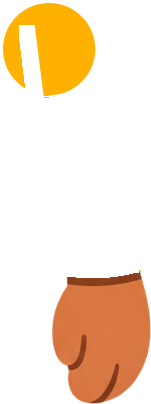
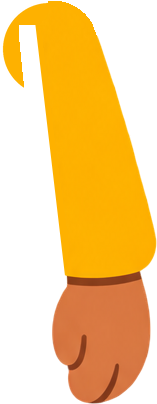
Sửa bàn tay nhân vật teen rời khỏi tay áo khi nhún vai; app ghi đúng công cụ vẽ ảnh đang chọn
- Teen: tay áo được cắt liền với bàn tay nên nhún vai, cổ vũ, nhảy không còn bàn tay tách khỏi tay áo; sườn áo lộ ra khi dang tay được làm mượt; nếp gấp tay áo khi đứng yên liền nét như ảnh gốc.
- Bước "Vẽ hình ảnh", mô tả kiểu video và nút vẽ đồ vật mới ghi tên công cụ theo Cài đặt (vd. Google + Recraft) thay cho chữ OpenAI cố định.

diff --git a/remotion-remake/src/server/index.html b/remotion-remake/src/server/index.html
@@ -191,7 +191,7 @@
       </div>
       <div class="row">
         <select id="style" aria-label="Kiểu video">
-          <option value="fedtoon">🎨 Hoạt hình Fedtoon (ảnh OpenAI + nhân vật Fedtoon)</option>
+          <option value="fedtoon">🎨 Hoạt hình Fedtoon (ảnh AI + nhân vật Fedtoon)</option>
           <option value="classic">🔤 Chữ &amp; đồ hoạ (kiểu cũ)</option>
         </select>
         <label class="check" style="color:var(--text)" title="Dừng sau khi AI viết kịch bản: bạn sửa kịch bản rồi mới tốn tiền vẽ ảnh và lồng tiếng"><input type="checkbox" id="review" /> ✋ Dừng để duyệt kịch bản trước khi vẽ ảnh</label>
@@ -265,7 +265,7 @@
             <button class="primary" id="render-saved" type="button">🎬 Render lại (không tốn AI)</button>
             <button id="edit-here" type="button" hidden>✏ Sửa cảnh đang xem</button>
           </div>
-          <div class="hint" style="margin-top:6px">Dựng lại video bằng kịch bản, ảnh và giọng đã lưu, không gọi OpenAI, Claude hay ElevenLabs. Video hiện tại sẽ được thay bằng bản mới.</div>
+          <div class="hint" style="margin-top:6px">Dựng lại video bằng kịch bản, ảnh và giọng đã lưu, không gọi Claude, OpenAI, Google, Recraft hay ElevenLabs. Video hiện tại sẽ được thay bằng bản mới.</div>
         </div>
       </div>
       <div class="card">
@@ -483,6 +483,7 @@
 <script>
 const $ = (id) => document.getElementById(id);
 let STEPS = [];
+let IMAGE_TOOLS = { bg: "OpenAI", prop: "OpenAI", label: "OpenAI" };
 let FEDTOON_CAST = [];
 let current = null;
 
@@ -528,6 +529,8 @@ async function loadStatus() {
   const s = await api("/api/status");
   FEDTOON_CAST = s.fedtoonCast ?? [];
   STEPS = s.steps;
+  IMAGE_TOOLS = s.imageTools ?? IMAGE_TOOLS;
+  syncStyle();
   PROVIDERS = s.providers;
   try {
     $("provider").checked = localStorage.getItem("provider") === "openai";
@@ -958,7 +961,7 @@ function edAddProp() {
   const draw = el("button", {
     type: "button",
     style: "margin-top:6px",
-    textContent: ed.drawing ? "Đang vẽ, chờ khoảng 1 phút…" : "🎨 Vẽ ảnh mới (tốn phí OpenAI)",
+    textContent: ed.drawing ? "Đang vẽ, chờ khoảng 1 phút…" : `🎨 Vẽ ảnh mới (tốn phí ${IMAGE_TOOLS.prop})`,
     disabled: ed.drawing,
     onclick: async () => {
       if (!prompt.value.trim()) return prompt.focus();
@@ -1130,12 +1133,14 @@ function syncStyle() {
   if (!fedtoon) $("review").checked = false;
   // With Fedtoon, "Bản sao" copies what the video says; the pictures are always Fedtoon's.
   $("mode-clone").textContent = fedtoon ? "Bản sao (giữ nguyên nội dung)" : "Bản sao (y hệt)";
-  const look = "Hình ảnh làm lại theo phong cách Fedtoon: OpenAI vẽ nền và đồ vật (phong cách ở tab Cài đặt), Fed thay người dẫn, nhân vật Fedtoon thay người trong video.";
+  const { bg, prop } = IMAGE_TOOLS;
+  const drawers = bg === prop ? `${bg} vẽ nền và đồ vật` : `${bg} vẽ nền, ${prop} vẽ đồ vật`;
+  const look = `Hình ảnh làm lại theo phong cách Fedtoon: ${drawers} (đổi công cụ và phong cách ở tab Cài đặt), Fed thay người dẫn, nhân vật Fedtoon thay người trong video.`;
   $("style-hint").textContent = !fedtoon
     ? "Phù hợp nhất với video chữ + đồ hoạ chuyển động: quiz, top list, sự thật thú vị, trích dẫn, số liệu, timeline."
     : clone
-      ? `Giữ nguyên nội dung video gốc: lời thoại chép đúng từng câu theo phụ đề (cùng thứ tự, cùng nhịp), chữ trên hình giữ nguyên. ${look} Bật 🎙 Lồng tiếng để đọc lời thoại bằng ElevenLabs. Video gốc không có phụ đề thì không chép được lời thoại. Cần khóa Claude hoặc OpenAI để viết kịch bản; thiếu khóa OpenAI thì dùng nền vẽ sẵn.`
-      : `Cùng chủ đề, bố cục và nhịp với video gốc nhưng AI viết lời thoại mới bằng từ ngữ riêng (ví dụ, câu chữ mới), kèm tiêu đề, mô tả, hashtag mới. ${look} Cần khóa Claude hoặc OpenAI để viết kịch bản; thiếu khóa OpenAI thì dùng nền vẽ sẵn.`;
+      ? `Giữ nguyên nội dung video gốc: lời thoại chép đúng từng câu theo phụ đề (cùng thứ tự, cùng nhịp), chữ trên hình giữ nguyên. ${look} Bật 🎙 Lồng tiếng để đọc lời thoại bằng ElevenLabs. Video gốc không có phụ đề thì không chép được lời thoại. Cần khóa Claude hoặc OpenAI để viết kịch bản; thiếu khóa của công cụ vẽ ảnh thì dùng nền vẽ sẵn.`
+      : `Cùng chủ đề, bố cục và nhịp với video gốc nhưng AI viết lời thoại mới bằng từ ngữ riêng (ví dụ, câu chữ mới), kèm tiêu đề, mô tả, hashtag mới. ${look} Cần khóa Claude hoặc OpenAI để viết kịch bản; thiếu khóa của công cụ vẽ ảnh thì dùng nền vẽ sẵn.`;
   try {
     localStorage.setItem("remake-style", JSON.stringify({ style: $("style").value, review: $("review").checked }));
   } catch {}

diff --git a/remotion-remake/src/pipeline/job.ts b/remotion-remake/src/pipeline/job.ts
@@ -9,7 +9,7 @@ import type { AiOutput, RemakeMode } from "./ai-common";
 import { analyzeBasic } from "./analyze-basic";
 import { hasElevenLabsKey } from "./elevenlabs";
 import { extractFrames, type Frame } from "./frames";
-import { drawProp, generateStoryboardImages, imageDir, imageSettingsText, missingImageKeys } from "./images";
+import { drawProp, generateStoryboardImages, imageDir, imageSettingsText, imageToolNames, missingImageKeys } from "./images";
 import { extractPostContent, postContentText, type PostContent } from "./metadata";
 import { officialPost, type OfficialPost } from "./official-post";
 import { renderShotPreview, renderSpec } from "./render";
@@ -26,11 +26,14 @@ export const STEPS = [
   { id: "subtitles", label: "Lấy phụ đề" },
   { id: "frames", label: "Cắt khung hình chính" },
   { id: "analyze", label: "Phân tích & viết kịch bản" },
-  { id: "assets", label: "Vẽ hình ảnh (OpenAI)" },
+  { id: "assets", label: "Vẽ hình ảnh" },
   { id: "voice", label: "Lồng tiếng (ElevenLabs)" },
   { id: "render", label: "Render bằng Remotion" },
 ] as const;
 export type StepId = (typeof STEPS)[number]["id"];
+
+/** The steps as shown on screen: the picture step names the image tools chosen in the settings. */
+export const stepsNow = () => STEPS.map((s) => (s.id === "assets" ? { ...s, label: `Vẽ hình ảnh (${imageToolNames().label})` } : { ...s }));
 
 export type JobEvent =
   | { type: "step"; step: StepId; status: "start" | "done" | "skip"; message?: string }
@@ -48,7 +51,7 @@ export type JobOptions = {
   provider: Provider;
   render: boolean;
   voice: boolean;
-  /** "fedtoon": animated storyboard (OpenAI images + code-drawn characters); "classic": text & graphics templates. */
+  /** "fedtoon": animated storyboard (AI-drawn images + code-drawn characters); "classic": text & graphics templates. */
   style: VideoStyle;
   /** Stop after the storyboard so it can be reviewed before paying for images and voice. */
   review: boolean;
@@ -509,7 +512,7 @@ export function unfinishedJobs(isRunningNow: (id: string) => boolean) {
       title: state.title || id,
       interrupted: state.status === "running",
       step: state.step,
-      stepLabel: STEPS.find((s) => s.id === state.step)?.label ?? state.step,
+      stepLabel: stepsNow().find((s) => s.id === state.step)?.label ?? state.step,
       done: state.done.length,
       total: STEPS.length,
       error: state.error,

diff --git a/remotion-remake/src/server/server.ts b/remotion-remake/src/server/server.ts
@@ -13,7 +13,8 @@ import { hasYoutubeKey, KEY_HELP_URL, YoutubeApi } from "../discover/youtube-api
 import { FED, RECURRING_CAST } from "../fedtoon/cast";
 import { parseProvider, providerStatus } from "../pipeline/ai";
 import { catalog, hasElevenLabsKey, previewVoice } from "../pipeline/elevenlabs";
-import { dismissJob, drawPropForJob, listJobs, loadJob, loadState, previewShot, renderSavedJob, rerenderJob, runJob, saveSpec, STEPS, unfinishedJobs, type JobOptions } from "../pipeline/job";
+import { dismissJob, drawPropForJob, listJobs, loadJob, loadState, previewShot, renderSavedJob, rerenderJob, runJob, saveSpec, stepsNow, unfinishedJobs, type JobOptions } from "../pipeline/job";
+import { imageToolNames } from "../pipeline/images";
 import { composePost, defaultChannel, LIMITS, loadComposedPost, loadPostSource, parseWriterOptions, sanitizeSource, saveComposedPost, TARGET } from "../pipeline/post-writer";
 import { OUT_DIR, ytDlp } from "../pipeline/tools";
 import { parseVideoId } from "../pipeline/youtube";
@@ -129,7 +130,7 @@ const server = http.createServer(async (req, res) => {
       } catch {
         ytdlp = false;
       }
-      return json(res, 200, { providers: providerStatus(), ytdlp, steps: STEPS, youtubeApi: hasYoutubeKey(), elevenlabs: hasElevenLabsKey(), fedtoonCast: [FED, ...RECURRING_CAST] });
+      return json(res, 200, { providers: providerStatus(), ytdlp, steps: stepsNow(), imageTools: imageToolNames(), youtubeApi: hasYoutubeKey(), elevenlabs: hasElevenLabsKey(), fedtoonCast: [FED, ...RECURRING_CAST] });
     }
     if (parts[1] === "settings" && parts.length === 2) return await settingsRoutes(req, res);
     if (parts[1] === "elevenlabs") return await elevenLabsRoutes(req, res, parts[2]);

diff --git a/remotion-remake/src/fedtoon/cast-rigs.ts b/remotion-remake/src/fedtoon/cast-rigs.ts
@@ -1336,34 +1336,34 @@ export const CAST_RIGS: Record<string, CharacterRig> = {
         "h": 502
       },
       "arm-l": {
-        "x": 265,
+        "x": 259,
         "y": 665,
-        "w": 158,
+        "w": 164,
         "h": 406
       },
       "arm-r": {
         "x": 601,
         "y": 667,
-        "w": 151,
+        "w": 157,
         "h": 404
       },
       "body": {
-        "x": 259,
+        "x": 320,
         "y": 351,
-        "w": 499,
+        "w": 421,
         "h": 1114
       },
       "arm-l-seam": {
         "x": 349,
         "y": 701,
         "w": 38,
-        "h": 222
+        "h": 240
       },
       "arm-r-seam": {
         "x": 633,
         "y": 701,
         "w": 37,
-        "h": 222
+        "h": 240
       },
       "mouth": {
         "x": 462,
@@ -1404,7 +1404,7 @@ export const CAST_RIGS: Record<string, CharacterRig> = {
             ],
             "seam": {
               "part": "arm-l-seam",
-              "reach": 207
+              "reach": 222
             }
           }
         ]
@@ -1422,7 +1422,7 @@ export const CAST_RIGS: Record<string, CharacterRig> = {
             ],
             "seam": {
               "part": "arm-r-seam",
-              "reach": 206
+              "reach": 222
             }
           }
         ]

diff --git a/remotion-remake/src/pipeline/images.ts b/remotion-remake/src/pipeline/images.ts
@@ -86,6 +86,15 @@ export function imageSettingsText(meta: Storyboard["meta"]) {
   return `Ảnh vẽ mới: nền bằng ${bg}; đồ vật bằng ${prop}.`;
 }
 
+const TOOL_NAMES: Record<ImageTool, string> = { openai: "OpenAI", gemini: "Google", recraft: "Recraft" };
+
+/** Who draws new pictures with the current settings, for labels on screen ("Google + Recraft"). */
+export function imageToolNames() {
+  const bg = TOOL_NAMES[toolFor("bg")];
+  const prop = TOOL_NAMES[toolFor("prop")];
+  return { bg, prop, label: bg === prop ? bg : `${bg} + ${prop}` };
+}
+
 const named = (names: readonly ColorName[]) => names.map((n) => `${n} (${PALETTE[n]})`).join(", ");
 
 /**

diff --git a/remotion-remake/src/cli.ts b/remotion-remake/src/cli.ts
@@ -1,6 +1,6 @@
 import "./env";
 import path from "node:path";
-import { loadState, rerenderJob, runJob, STEPS, type JobEvent } from "./pipeline/job";
+import { loadState, rerenderJob, runJob, stepsNow, type JobEvent } from "./pipeline/job";
 import { ROOT } from "./pipeline/tools";
 
 const args = process.argv.slice(2);
@@ -19,7 +19,7 @@ if (!target) {
   process.exit(1);
 }
 
-const label = (id: string) => STEPS.find((s) => s.id === id)?.label ?? id;
+const label = (id: string) => stepsNow().find((s) => s.id === id)?.label ?? id;
 let lastPct = -10;
 const print = (e: JobEvent) => {
   if (e.type === "step") {

diff --git a/docs/ke-hoach-dung-video-hoat-hinh.md b/docs/ke-hoach-dung-video-hoat-hinh.md
@@ -13,7 +13,7 @@
 | Bộ nhận diện | `remotion-remake/src/fedtoon/brand.ts` | Bảng màu, font Nunito, mô tả phong cách ảnh (sửa được ở tab Cài đặt: `FEDTOON_IMAGE_STYLE`) |
 | Nhân vật (hướng C) | `remotion-remake/src/remotion/fedtoon/Puppet.tsx`, `src/fedtoon/cast.ts` | 05/11: kênh quốc tế (tiếng Anh): nhân vật phụ dùng id/tên tiếng Anh, chỉ minh hoạ cho lời thoại (không tên, không vai, không nói, không gọi tên nhau); `finalizeStoryboard` đặt người nói là người dẫn hoặc Fed, id cũ (mai, tuan…) vẫn đọc được. |
 | Nhân vật vẽ bằng code | `remotion-remake/src/remotion/fedtoon/Puppet.tsx` | Nhân vật người vẽ bằng SVG theo ảnh mẫu của chủ kênh `remotion-remake/assets/cast/reference.png` (05/11: cùng phong cách với Fed: đầu to, tai tròn, mắt to có đốm sáng, áo dài tay, quần và giày sẫm). Không cắt ảnh mẫu như Fed vì ảnh nhỏ (mỗi người ~400 px) và mỗi người bị cố định một tư thế. Dàn nhân vật phụ cố định: Mai, Tuấn, Lan, Khoa, Bảo, An, Ông (AI dùng lại theo id, ngoại hình bị khoá); người khác được tuỳ chỉnh da, tóc, màu áo, kiểu áo (len, hoodie, polo), quần (sẫm, jean), phụ kiện; 9 động tác, 6 biểu cảm, chớp mắt, khẩu hình theo mốc thời gian từng từ của ElevenLabs. Xem tất cả: Remotion Studio → `FedtoonCast` |
-| Nhân vật phụ từ ảnh | `remotion-remake/assets/cast/<id>/` → `public/fedtoon/cast/<id>/`, `src/fedtoon/cast-rigs.ts` | 05/11: chủ kênh gửi ảnh nét từng nhân vật, dùng ảnh thay cho bản vẽ code. Đã xong: **woman** (Mai, làm lại 05/11: ảnh đứng hai tay buông là rig chính, ảnh đưa tay → woman-present cho point/wave/cheer; tóc dài: phần tóc hai bên vai tách thành hair-back sau tay, đầu cắt ở ngang cằm; khuỷu tay gập thật nên cẳng tay chỉ gập thêm lên `elbowRange: [0, 16]`, duỗi xuống sẽ hở khe ở nếp khuỷu), **man** (Tuấn, làm lại 05/11 với 2 ảnh), **scientist** (Lan, làm lại 05/11: ảnh đứng hai tay buông là rig chính, ảnh chỉ tay → scientist-point cho point/wave/cheer, cùng cỡ), **kid** (An, làm lại 05/11: ảnh đứng là rig chính, ảnh tay chạm thái dương → kid-think chỉ cho think, bàn tay vẽ trước mặt; nhân vật có nét viền đậm (sửa 05/11 vì viền lệch): đường viền giữa tay và thân thuộc về tay, tay kết thúc đúng ở mép nét viền; thân có bản sao nét viền đứng yên (`edgeLine.body` → lớp `<tay>-bodyline`, luôn vẽ, trùng điểm ảnh với nét của tay lúc đứng yên nên không hở khe); chỗ nét bị khăn che thì tay được nối dài dưới khăn và vẽ thêm nét (`edgeLine.synth`, chỉ hiện khi tay rời thân); không dùng `trim` vì phần vai giữ lại trên thân mang theo một đoạn nét viền ngoài của tay), mép thân giáp tay bỏ viền (`bodyEdge`) để không thành đường đôi/chấm chấm khi tay đưa ra), **grandpa** (Ông, làm lại 05/11: ảnh đứng là rig chính, ảnh giơ hai tay → grandpa-cheer chỉ cho cheer, cùng cỡ theo độ rộng kính; mảng lấp sườn áo dùng fill `aa` (mép khử răng cưa, tô đè) kéo tới cổ tay áo, độ phồng nách giảm về 0 trước cổ tay để không thành mẩu thừa); chủ kênh thấy 4 nhân vật sau còn méo nên làm lại từng người, mỗi người thêm một ảnh dáng tự nhiên. Cách làm lại (đã áp dụng cho man): ảnh dáng tự nhiên làm rig chính, ảnh cũ thành rig phụ `<id>-<động tác>` chỉ dùng cho động tác của nó (`poses` trong rig.json, vd. man: wave, cheer → man-wave), miệng cười của rig chính ghép sang rig phụ (`mouthFrom`), `shoulderShare` dồn chuyển động tay vào khuỷu cho vai đỡ lộ đường cắt, `trim` để phần vai ngoài vòng khớp ở lại thân áo; tránh xoay tay góc lớn (`rest`) vì dễ méo. Đường viền tối giữa tay áo và thân áo (`seam` của đoạn tay) tách thành lớp riêng vẽ trên thân áo: chỉ hiện khi tay nép sát thân (động tác idle/talk/wave/point/think, tay lệch dưới ~4 px), tay đưa ra thì ẩn và mép trong tay áo là một đường thẳng mượt theo tâm đường viền; `erase` xoá tay mẩu nhọn còn sót (chủ kênh yêu cầu 05/11: viền chỉ dùng khi tay áo nép sát thân). Nách: bắp tay đưa ra không xoay ở vai (`shoulderShare: 0`, chỉ khuỷu và bàn tay cử động) vì xoay ở vai làm nách hở thành khe nhọn; `elbowRange` giới hạn hạ cẳng tay để khuỷu không khấc; tay buông có mảng lấp nách cong mượt trên thân áo (fill) để khi dang ra khe nách bắt đầu thấp và tròn như nách thật; thân áo phủ tới tâm đường viền để khi viền ẩn không lộ khe. split.py còn: khử viền màu lạ ở mép ảnh tách nền (`defringe`), điểm ảnh mép tay giáp thân đổi về đúng màu nhóm, viền mờ chỉ đi theo bộ phận khi đúng màu vùng của nó, `open` bỏ mẩu mảnh ở mép, lấp viền tay áo (`dilate` fill) giới hạn bằng `polygon` để không tạo dải màu áo quanh bàn tay, lông mày có mép bán trong suốt; hai tay buông đung đưa ngược chiều khi đi. Khớp khuỷu của tay thẳng (vd. tay chỉ của scientist): tâm vòng khớp phải nằm trên đường giữa ống tay và bán kính bằng nửa bề dày ống tay, nếu không khi gập sẽ hở thành hai khối rời. **teen** (Khoa, 05/11: ảnh đứng là rig chính, ảnh đang đi → teen-walk chỉ cho động tác walk, đầu và mặt cử động; nét mặt gốc cau có nên `faceBase: "angry"`: lông mày, mí mắt của biểu cảm khác tính từ nét cau có; lông mày chạm viền mắt nên `browGap` bỏ phần viền mắt và lấp lại lông mày theo bao lồi). **boy** (Bảo, 05/11: ảnh đứng là rig chính, ảnh nhảy tay chạm cằm → boy-think cho jump và think, bàn tay vẽ trước mặt). Hiện mọi nhân vật phụ đều dùng ảnh; bản vẽ code chỉ còn cho nhân vật AI tự thêm. Mỗi nhân vật có `rig.json`: vùng từng bộ phận (đa giác + nhóm màu), khớp xoay, vòng khớp lấp chỗ hở, mắt, miệng, lông mày; tay giơ trong ảnh có `rest` (góc hạ tay khi nghỉ), `point`, `cap` (vai tròn khi hạ tay); `drawnAction` (động tác của ảnh: man vẫy, scientist chỉ, kid suy nghĩ, grandpa reo hò), `mouthStyle` (miệng trong ảnh: các biểu cảm khác vẽ bằng vector); đoạn tay `front` vẽ trước mặt (tay kid chạm thái dương). `python assets/cast/split.py <id>` cắt ảnh. Fed và nhân vật ảnh dùng chung bộ dựng `src/fedtoon/rig.ts` + `RigPuppet`. Xem: Remotion Studio → `FedtoonMascot` với props `{"id":"man"}`… |
+| Nhân vật phụ từ ảnh | `remotion-remake/assets/cast/<id>/` → `public/fedtoon/cast/<id>/`, `src/fedtoon/cast-rigs.ts` | 05/11: chủ kênh gửi ảnh nét từng nhân vật, dùng ảnh thay cho bản vẽ code. Đã xong: **woman** (Mai, làm lại 05/11: ảnh đứng hai tay buông là rig chính, ảnh đưa tay → woman-present cho point/wave/cheer; tóc dài: phần tóc hai bên vai tách thành hair-back sau tay, đầu cắt ở ngang cằm; khuỷu tay gập thật nên cẳng tay chỉ gập thêm lên `elbowRange: [0, 16]`, duỗi xuống sẽ hở khe ở nếp khuỷu), **man** (Tuấn, làm lại 05/11 với 2 ảnh), **scientist** (Lan, làm lại 05/11: ảnh đứng hai tay buông là rig chính, ảnh chỉ tay → scientist-point cho point/wave/cheer, cùng cỡ), **kid** (An, làm lại 05/11: ảnh đứng là rig chính, ảnh tay chạm thái dương → kid-think chỉ cho think, bàn tay vẽ trước mặt; nhân vật có nét viền đậm (sửa 05/11 vì viền lệch): đường viền giữa tay và thân thuộc về tay, tay kết thúc đúng ở mép nét viền; thân có bản sao nét viền đứng yên (`edgeLine.body` → lớp `<tay>-bodyline`, luôn vẽ, trùng điểm ảnh với nét của tay lúc đứng yên nên không hở khe); chỗ nét bị khăn che thì tay được nối dài dưới khăn và vẽ thêm nét (`edgeLine.synth`, chỉ hiện khi tay rời thân); không dùng `trim` vì phần vai giữ lại trên thân mang theo một đoạn nét viền ngoài của tay), mép thân giáp tay bỏ viền (`bodyEdge`) để không thành đường đôi/chấm chấm khi tay đưa ra), **grandpa** (Ông, làm lại 05/11: ảnh đứng là rig chính, ảnh giơ hai tay → grandpa-cheer chỉ cho cheer, cùng cỡ theo độ rộng kính; mảng lấp sườn áo dùng fill `aa` (mép khử răng cưa, tô đè) kéo tới cổ tay áo, độ phồng nách giảm về 0 trước cổ tay để không thành mẩu thừa); chủ kênh thấy 4 nhân vật sau còn méo nên làm lại từng người, mỗi người thêm một ảnh dáng tự nhiên. Cách làm lại (đã áp dụng cho man): ảnh dáng tự nhiên làm rig chính, ảnh cũ thành rig phụ `<id>-<động tác>` chỉ dùng cho động tác của nó (`poses` trong rig.json, vd. man: wave, cheer → man-wave), miệng cười của rig chính ghép sang rig phụ (`mouthFrom`), `shoulderShare` dồn chuyển động tay vào khuỷu cho vai đỡ lộ đường cắt, `trim` để phần vai ngoài vòng khớp ở lại thân áo; tránh xoay tay góc lớn (`rest`) vì dễ méo. Đường viền tối giữa tay áo và thân áo (`seam` của đoạn tay) tách thành lớp riêng vẽ trên thân áo: chỉ hiện khi tay nép sát thân (động tác idle/talk/wave/point/think, tay lệch dưới ~4 px), tay đưa ra thì ẩn và mép trong tay áo là một đường thẳng mượt theo tâm đường viền; `erase` xoá tay mẩu nhọn còn sót (chủ kênh yêu cầu 05/11: viền chỉ dùng khi tay áo nép sát thân). Nách: bắp tay đưa ra không xoay ở vai (`shoulderShare: 0`, chỉ khuỷu và bàn tay cử động) vì xoay ở vai làm nách hở thành khe nhọn; `elbowRange` giới hạn hạ cẳng tay để khuỷu không khấc; tay buông có mảng lấp nách cong mượt trên thân áo (fill) để khi dang ra khe nách bắt đầu thấp và tròn như nách thật; thân áo phủ tới tâm đường viền để khi viền ẩn không lộ khe. split.py còn: khử viền màu lạ ở mép ảnh tách nền (`defringe`), điểm ảnh mép tay giáp thân đổi về đúng màu nhóm, viền mờ chỉ đi theo bộ phận khi đúng màu vùng của nó, `open` bỏ mẩu mảnh ở mép, lấp viền tay áo (`dilate` fill) giới hạn bằng `polygon` để không tạo dải màu áo quanh bàn tay, lông mày có mép bán trong suốt; hai tay buông đung đưa ngược chiều khi đi. Khớp khuỷu của tay thẳng (vd. tay chỉ của scientist): tâm vòng khớp phải nằm trên đường giữa ống tay và bán kính bằng nửa bề dày ống tay, nếu không khi gập sẽ hở thành hai khối rời. **teen** (Khoa, 05/11: ảnh đứng là rig chính, ảnh đang đi → teen-walk chỉ cho động tác walk, đầu và mặt cử động; nét mặt gốc cau có nên `faceBase: "angry"`: lông mày, mí mắt của biểu cảm khác tính từ nét cau có; lông mày chạm viền mắt nên `browGap` bỏ phần viền mắt và lấp lại lông mày theo bao lồi; 07/11: vùng tay áo kéo xuống tới đáy tay áo (y≈944) và vùng đường may tới cùng chỗ đó, vì trước đây tay áo hụt khoảng 10 px nên rời khỏi bàn tay, rơi sang thân, khi nhún vai/cổ vũ/nhảy bàn tay tách khỏi tay áo; mảng lấp nách thon dần xuống gấu áo, khử răng cưa (`aa`). Tay buông mà mảnh tay có dòng trống ở giữa là dấu hiệu lỗi này). **boy** (Bảo, 05/11: ảnh đứng là rig chính, ảnh nhảy tay chạm cằm → boy-think cho jump và think, bàn tay vẽ trước mặt). Hiện mọi nhân vật phụ đều dùng ảnh; bản vẽ code chỉ còn cho nhân vật AI tự thêm. Mỗi nhân vật có `rig.json`: vùng từng bộ phận (đa giác + nhóm màu), khớp xoay, vòng khớp lấp chỗ hở, mắt, miệng, lông mày; tay giơ trong ảnh có `rest` (góc hạ tay khi nghỉ), `point`, `cap` (vai tròn khi hạ tay); `drawnAction` (động tác của ảnh: man vẫy, scientist chỉ, kid suy nghĩ, grandpa reo hò), `mouthStyle` (miệng trong ảnh: các biểu cảm khác vẽ bằng vector); đoạn tay `front` vẽ trước mặt (tay kid chạm thái dương). `python assets/cast/split.py <id>` cắt ảnh. Fed và nhân vật ảnh dùng chung bộ dựng `src/fedtoon/rig.ts` + `RigPuppet`. Xem: Remotion Studio → `FedtoonMascot` với props `{"id":"man"}`… |
 | Linh vật Fed | `remotion-remake/assets/mascot/` → `public/fedtoon/mascot/` | Ảnh do chủ kênh tự tạo (05/11), giữ nguyên nét vẽ. `split.py` cắt ảnh thành tay buông, cẳng tay đang giơ, thân, đầu, miệng, hai lông mày và sinh `src/fedtoon/mascot-rig.ts` (vị trí, khớp xoay). Remotion xoay đầu quanh cổ, cẳng tay quanh khuỷu, tay buông quanh vai; mí mắt vẽ đè để chớp mắt, miệng co giãn theo giọng đọc, lông mày đổi theo biểu cảm. Chân không cử động (đi bộ = nhún + trượt). Xem: Remotion Studio → `FedtoonMascot`. Đổi ảnh linh vật: thay `source.png`, đo lại toạ độ trong `split.py`, chạy `python assets/mascot/split.py` (cần Pillow + numpy) |
 | Kịch bản theo cảnh | `remotion-remake/src/spec/storyboard.ts`, `src/pipeline/storyboard-ai.ts` | AI (Claude/OpenAI) viết: lời thoại (chế độ **Bản sao** chép đúng từng câu theo phụ đề, app báo % từ giữ được; **Remix** viết mới), người nói, mô tả nền, góc máy, nhân vật + động tác + biểu cảm, đồ vật, chữ, chuyển cảnh, hiệu ứng âm thanh |
 | Vẽ ảnh (hướng A) | `remotion-remake/src/pipeline/images.ts` | `gpt-image-2.5-sunburst` mặc định (đổi được), nền 9:16 đúng khung, đồ vật nền trong suốt; mỗi ảnh vẽ một lần; ảnh bị từ chối được thay bằng hình vẽ sẵn. 06/11: ảnh nền mặc định 1088×1920 (cài đặt `OPENAI_IMAGE_BG_SIZE`; cạnh phải chia hết cho 16 nên không có 1080 đúng, phần dư được cắt khi dựng). Trước đó ảnh nền 864×1536 bị phóng to tới 1.43 lần (1.25 lên 1080p, 1.14 khi máy quay zoom), đây là nguyên nhân chính khiến video đầu tiên mờ. Bỏ `output_compression` (mặc định 100); khung hình Remotion dùng JPEG 100 |
